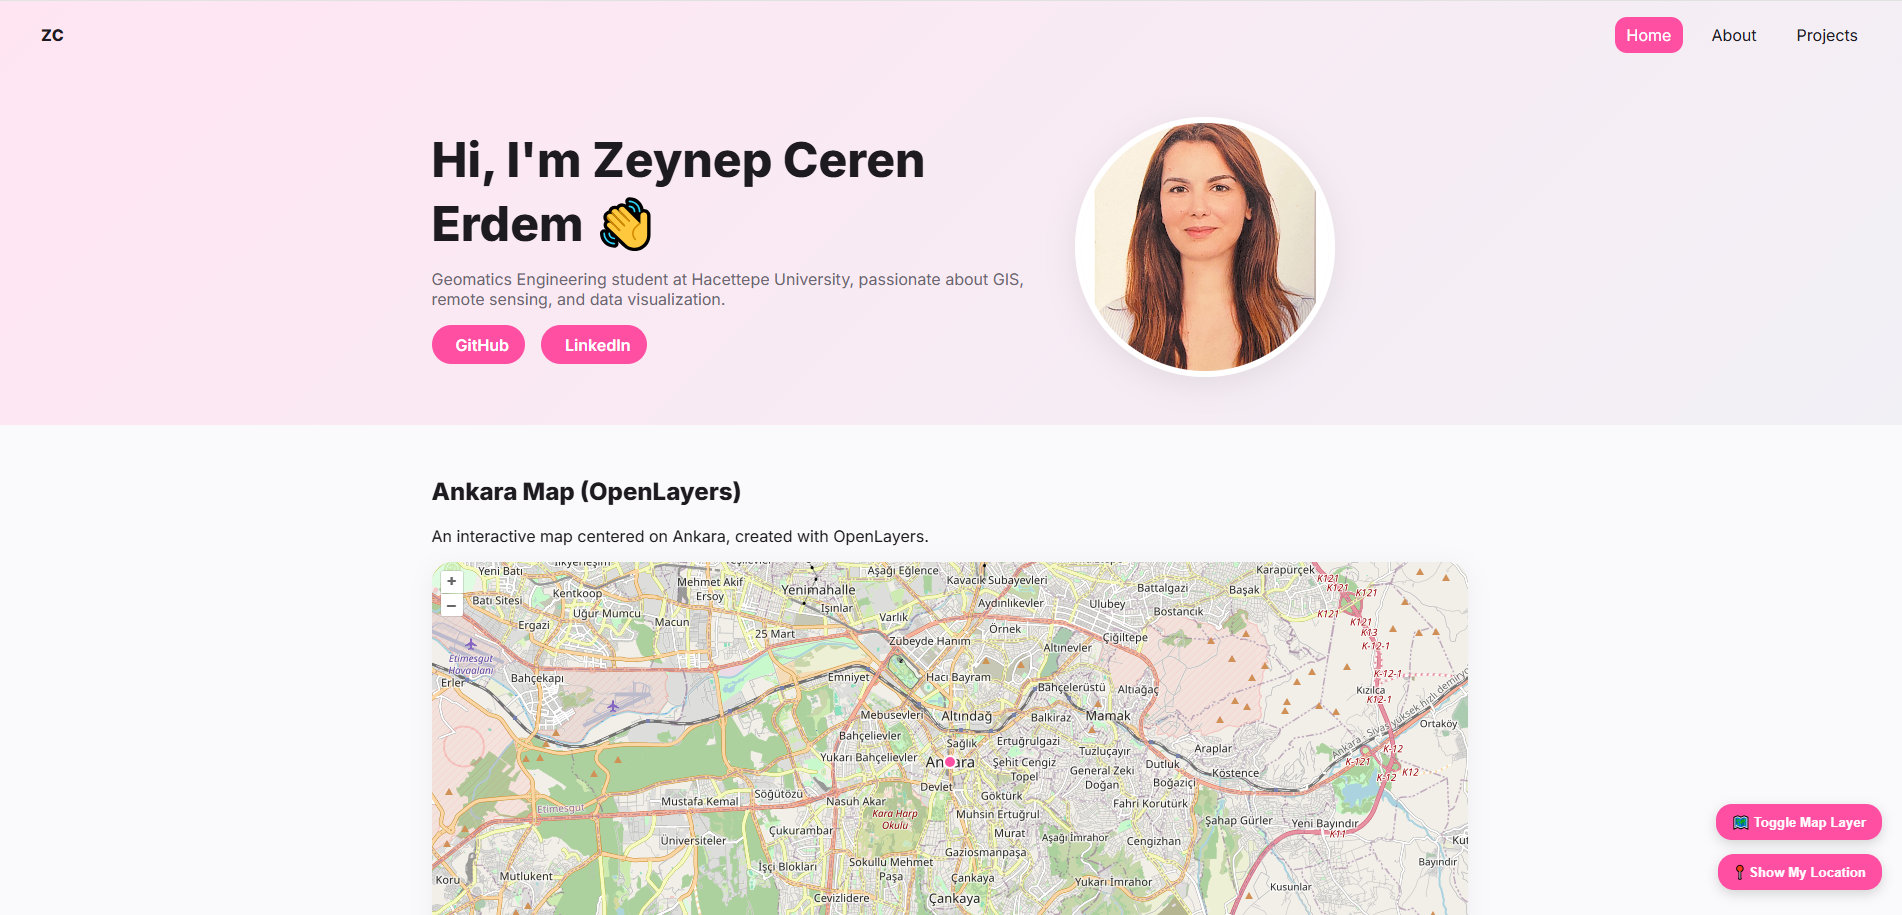
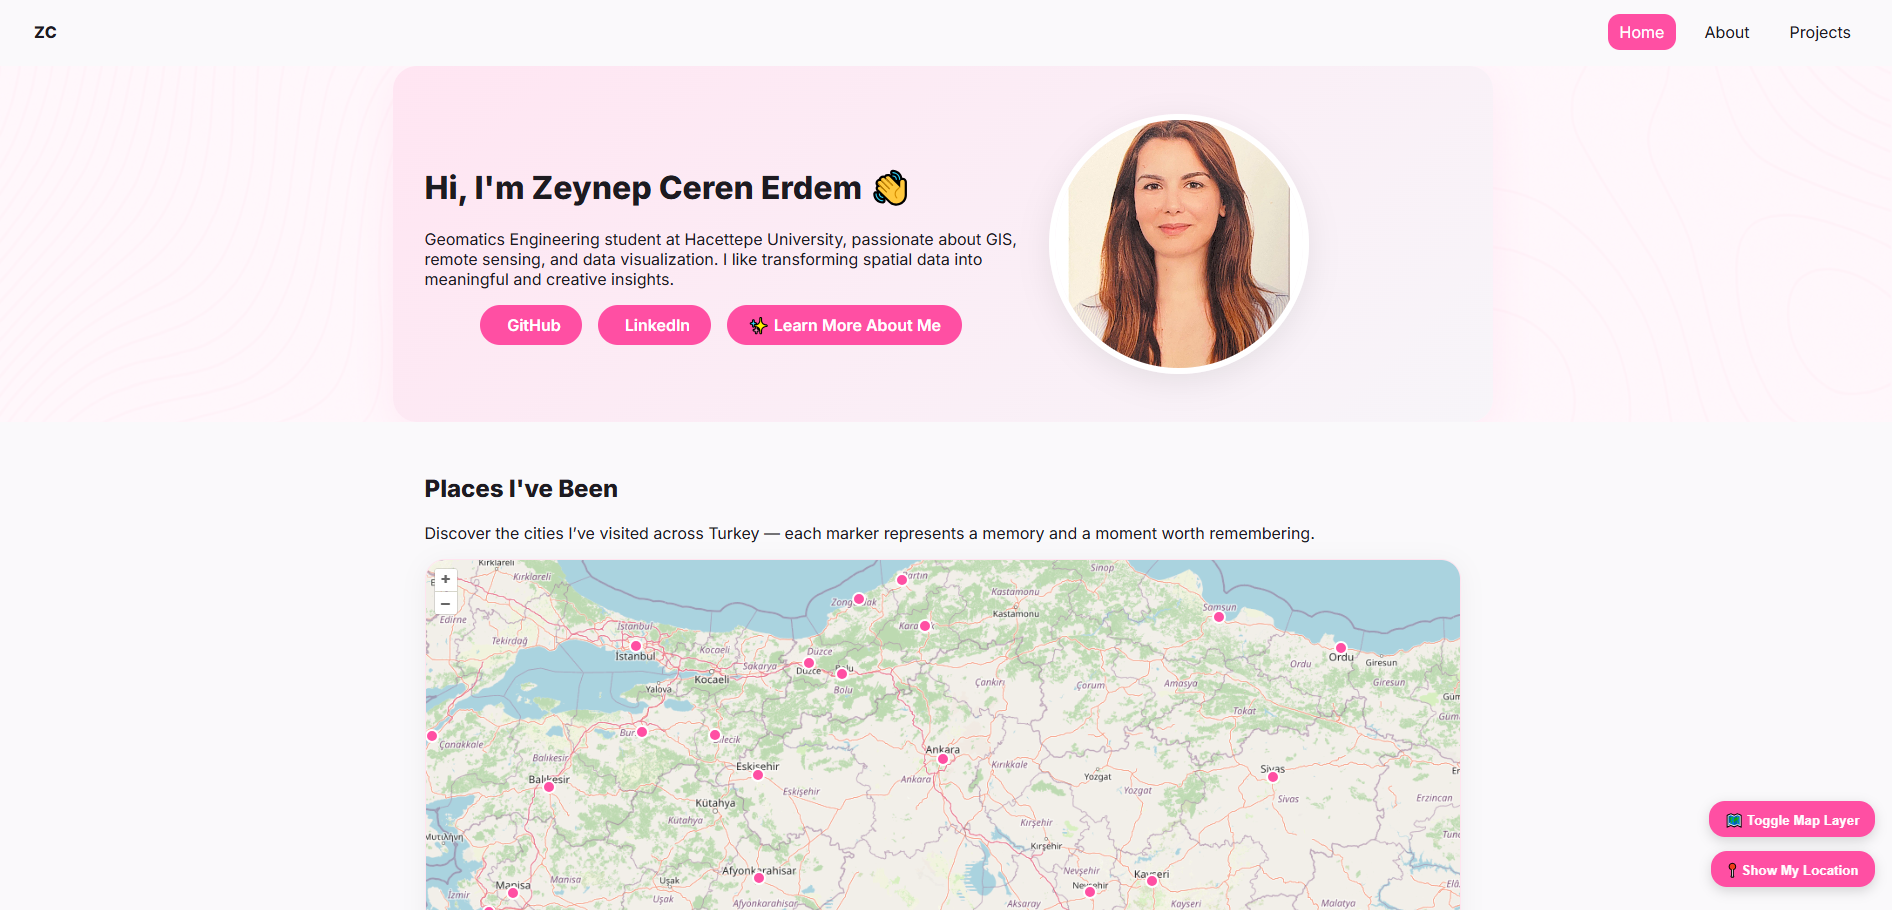
.

diff --git a/README.md b/README.md
@@ -81,6 +81,6 @@ It is **not my latest professional CV**, and some details (such as recent experi
 ## ⚙ Hosting
 
 The website is publicly available at the following link:  
-🔗 **Live Demo:** [https://zecereve.github.io/personal-web-page-zecereve/](https://zecereve.github.io/personal-web-page-zecereve/)
+🔗 **Live Demo:** [https://gmt-458-web-gis.github.io/personal-web-page-zecereve/](https://gmt-458-web-gis.github.io/personal-web-page-zecereve/)
 
 ---
